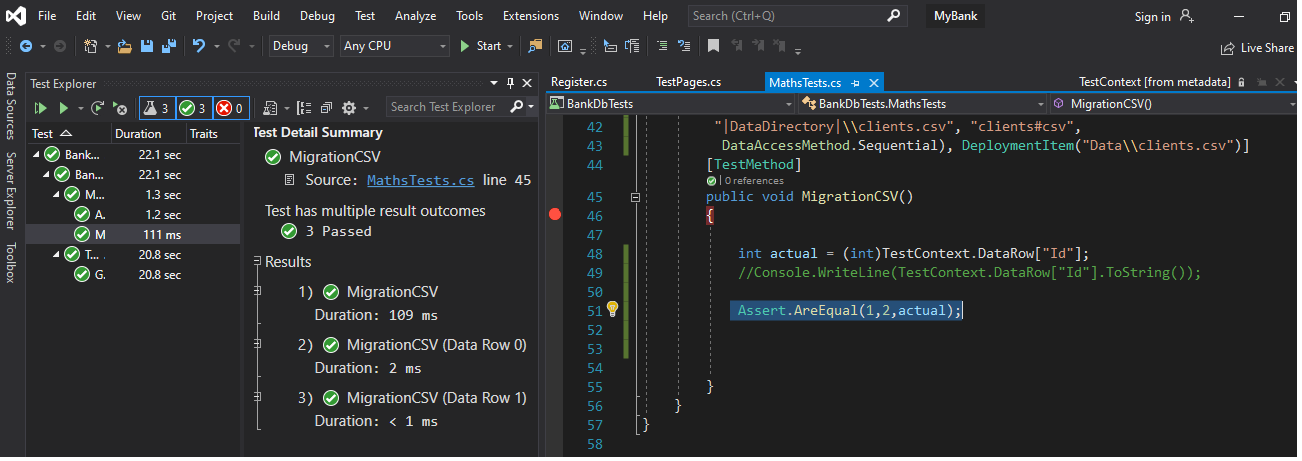
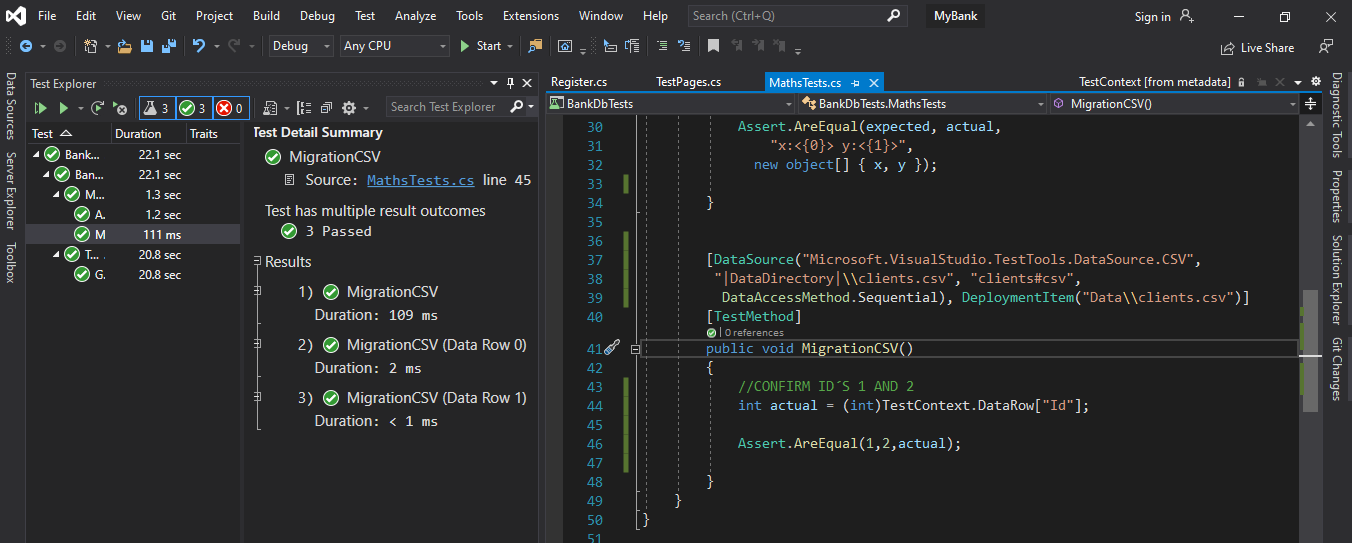
update method MigrationCSV

diff --git a/BankDbTests/MathsTests.cs b/BankDbTests/MathsTests.cs
@@ -31,10 +31,6 @@ namespace BankDbTests
                 "x:<{0}> y:<{1}>",
               new object[] { x, y });
 
-            // Assert.AreEqual(expected, actual);
-
-            //Console.WriteLine(expected + ":" + actual);
-
         }
 
 
@@ -44,14 +40,11 @@ namespace BankDbTests
         [TestMethod]
         public void MigrationCSV()
         {
-
+            //CONFIRM ID´S 1 AND 2
             int actual = (int)TestContext.DataRow["Id"];
-            //Console.WriteLine(TestContext.DataRow["Id"].ToString());
-
+            
             Assert.AreEqual(1,2,actual);
-           
-
-
+          
         }
     }
 }

diff --git a/README.md b/README.md
@@ -12,6 +12,7 @@
 
 
 <img src="/img/testsOk.png" width="500" height="200">
+<img src="/img/testOkMigrationCSV.png" width="500" height="200">
 
 
 
